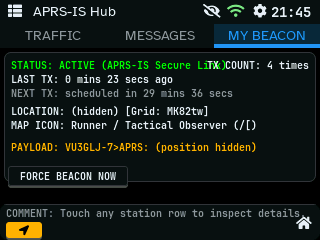
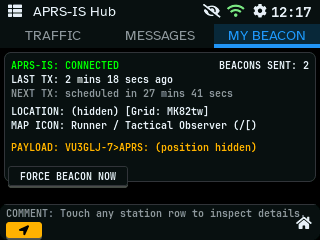
README: Satellites screenshots, menu and APRS beacon updated; satellites list fits 9 rows and the QO-100 line

diff --git a/src/ui/screens/satellites.cpp b/src/ui/screens/satellites.cpp
@@ -29,7 +29,7 @@ namespace ui {
         constexpr int BODY_Y = TAB_H, BODY_H = CONTENT_H - TAB_H - FOOTER_H;  // 172
         constexpr int FOOTER_Y = CONTENT_H - FOOTER_H;
         constexpr int REFRESH_X = SCREEN_W - 72, REFRESH_W = 28;
-        constexpr int ROWS = 10, ROW_H = 15, ROW_Y = 15;
+        constexpr int ROWS = 9, ROW_H = 15, ROW_Y = 15;  // and the geostationary line below
 
         const char* const CREDIT = "Data: SatNOGS DB (CC BY-SA 4.0), CelesTrak, ARISS.";
 

diff --git a/README.md b/README.md
@@ -24,6 +24,8 @@ This project is inspired by [cburns42/HamClockCYD](https://github.com/cburns42/H
 | <img src="docs/pics/screens/dx-cluster.png" alt="DX Cluster" width="250"> | <img src="docs/pics/screens/pota.png" alt="POTA Spots" width="250"> | <img src="docs/pics/screens/sota.png" alt="SOTA Spots" width="250"> |
 | **Band Conditions** | **Solar Indicators** | **Reading the Indicators** |
 | <img src="docs/pics/screens/band-conditions.png" alt="Band Conditions" width="250"> | <img src="docs/pics/screens/band-solar.png" alt="Solar Indicators" width="250"> | <img src="docs/pics/screens/band-guide.png" alt="Reading the Indicators" width="250"> |
+| **Satellite Passes** | **A Pass** | **SSTV & School Contacts** |
+| <img src="docs/pics/screens/satellites.png" alt="Satellite Passes" width="250"> | <img src="docs/pics/screens/satellites-pass.png" alt="A Satellite Pass" width="250"> | <img src="docs/pics/screens/satellites-events.png" alt="SSTV Events and School Contacts" width="250"> |
 | **APRS Traffic** | **APRS Radar** | **APRS Messages** |
 | <img src="docs/pics/screens/aprs-traffic.png" alt="APRS Traffic" width="250"> | <img src="docs/pics/screens/aprs-radar.png" alt="APRS Radar" width="250"> | <img src="docs/pics/screens/aprs-messages.png" alt="APRS Messages" width="250"> |
 | **APRS Quick Messages** | **APRS Beacon** | **HamAlert** |
@@ -72,6 +74,8 @@ Saved secrets (WiFi password, API keys, passcodes) are never shown again in the 
 * **Heap-Protected POTA & SOTA Fetching:** Standard HTTPS requests require ~40KB of contiguous RAM for RSA encryption (`mbedTLS`). QRPickle uses element-by-element JSON stream deserialization and task-staggering to prevent `BIGNUM` Out-Of-Memory kernel panics.
 * **APRS-IS Integration:** Connects to the global APRS-IS network. Features a tactical Radar view, live spotter tracking, custom macros, and direct bidirectional messaging.
 * **Band Conditions & Solar Data:** Solar-terrestrial data (SFI, K, A, X-ray, solar wind, Bz, noise) from [HAMQSL.com](https://www.hamqsl.com/solar.html) (courtesy of N0NBH), fetched every 3 hours (hourly in storms) or from your own source. Rates 11 bands (160 m to 6 m) for day and night at your location, shows greyline and the next sunrise/sunset, and explains every indicator on the device.
+* **Satellites & SSTV:** The next passes of popular amateur satellites over your station (FM, linear, SSTV, voice beacons, optionally APRS) with times, directions and frequencies, plus ISS SSTV events and ARISS school contacts. Passes are computed on the device (SGP4) from a feed built every 6 hours ([about the feed](https://bmp.github.io/QRPickle/space/)); your location never leaves the CYD. The LED signals SSTV and school-contact passes ahead of time.
+* **Screen Cycling:** Show chosen screens in turn (10 s each by default); a touch pauses it.
 * **Weather:** Local BME280 sensor plus OpenWeatherMap current conditions and a 24-hour forecast with selectable slots.
 * **Adaptive Power & Wi-Fi Management:** Enforces hardware-level radio power caps (`esp_wifi_set_max_tx_power(60)`, i.e. 15 dBm) to prevent LDO voltage brownouts on the CYD board. Falls back to an integrated Setup AP (`192.168.4.1`) if routing fails.
 * **Profiles:** Save and hot-swap complete configurations (every setting except the admin password: callsign, grid, network, theme, APRS, macros, DX servers, HamAlert) for quick transitions between Home, Mobile and Field ops. Edit a profile in the normal settings form, delete it, or download/restore a backup (settings + profiles, without passwords and keys). Profiles are stored on LittleFS, so download a backup before writing a new filesystem image.
@@ -98,6 +102,7 @@ QRPickle's own code is MIT-licensed (see [`License`](License)). The fonts are un
 * **[TFT_eSPI](https://github.com/Bodmer/TFT_eSPI):** Highly optimized SPI driver for the ILI9341 display.
 * **[XPT2046_Touchscreen](https://github.com/PaulStoffregen/XPT2046_Touchscreen):** Driver for the resistive touch controller (on its own SPI bus).
 * **[ESPAsyncWebServer](https://github.com/ESP32Async/ESPAsyncWebServer):** The web console and its REST API, with Digest authentication.
+* **[Sgp4](https://github.com/Hopperpop/Sgp4-Library):** Satellite orbit propagation (Vallado's SGP4) for the pass predictions.
 * **[ArduinoJson v7](https://arduinojson.org/):** Zero-allocation stream parsing for OpenWeatherMap, POTA, and SOTA HTTPS payloads.
 * **ESP-IDF Native APIs:** Utilized directly alongside the Arduino Core wrapper for strict Wi-Fi TX power limits, FreeRTOS task handling, and lwIP socket management.
 

diff --git a/docs/UI_GUIDE.md b/docs/UI_GUIDE.md
@@ -181,7 +181,7 @@ Tile rules:
 tabs PASSES / EVENTS / GUIDE, a 172 px body and a footer (satellites and passes held, feed age,
 refresh).
 
-- **PASSES:** up to 10 rows in `font_jetbrains_10`, one label each: local rise time (`NOW` while
+- **PASSES:** up to 9 rows in `font_jetbrains_10`, one label each: local rise time (`NOW` while
   up, accent colour), name (12 characters), highest elevation, compass directions at rise and set,
   minutes above the horizon, and `SSTV` / `ARISS` (amber) for ISS passes during an event. A
   geostationary satellite (QO-100) gets one line with its elevation. Tapping a row shows that pass:
